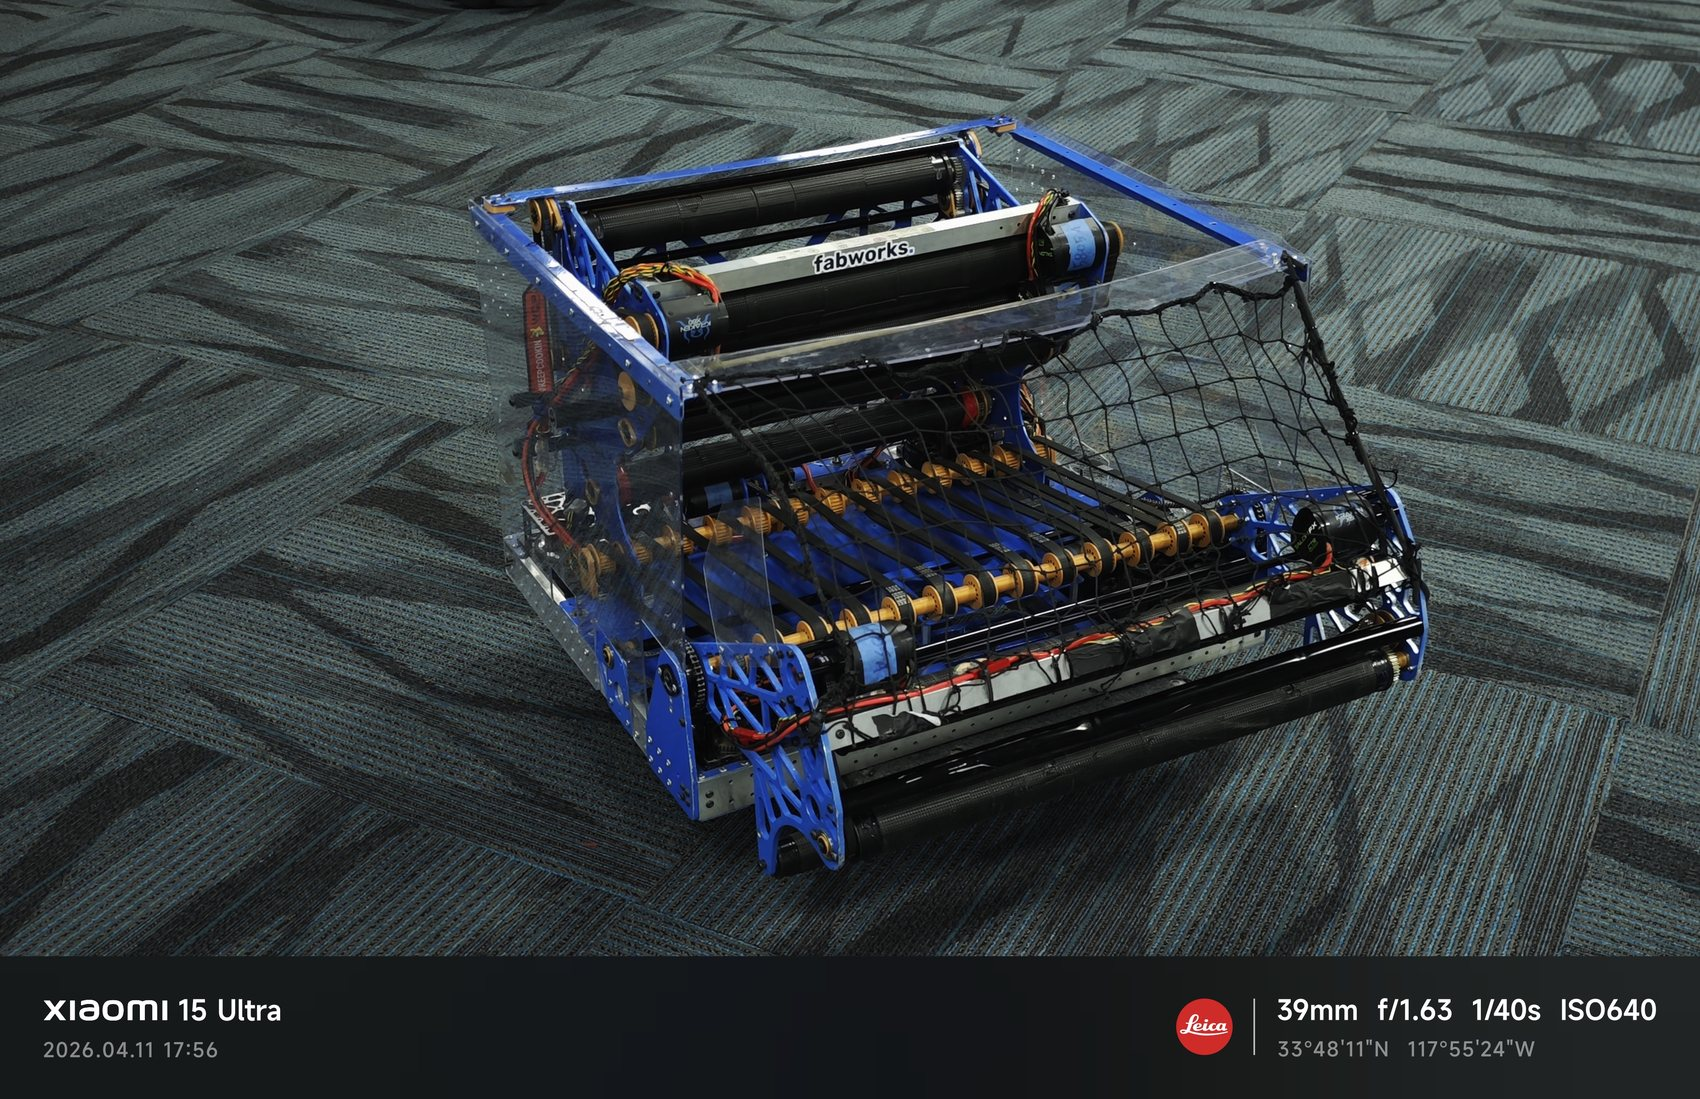
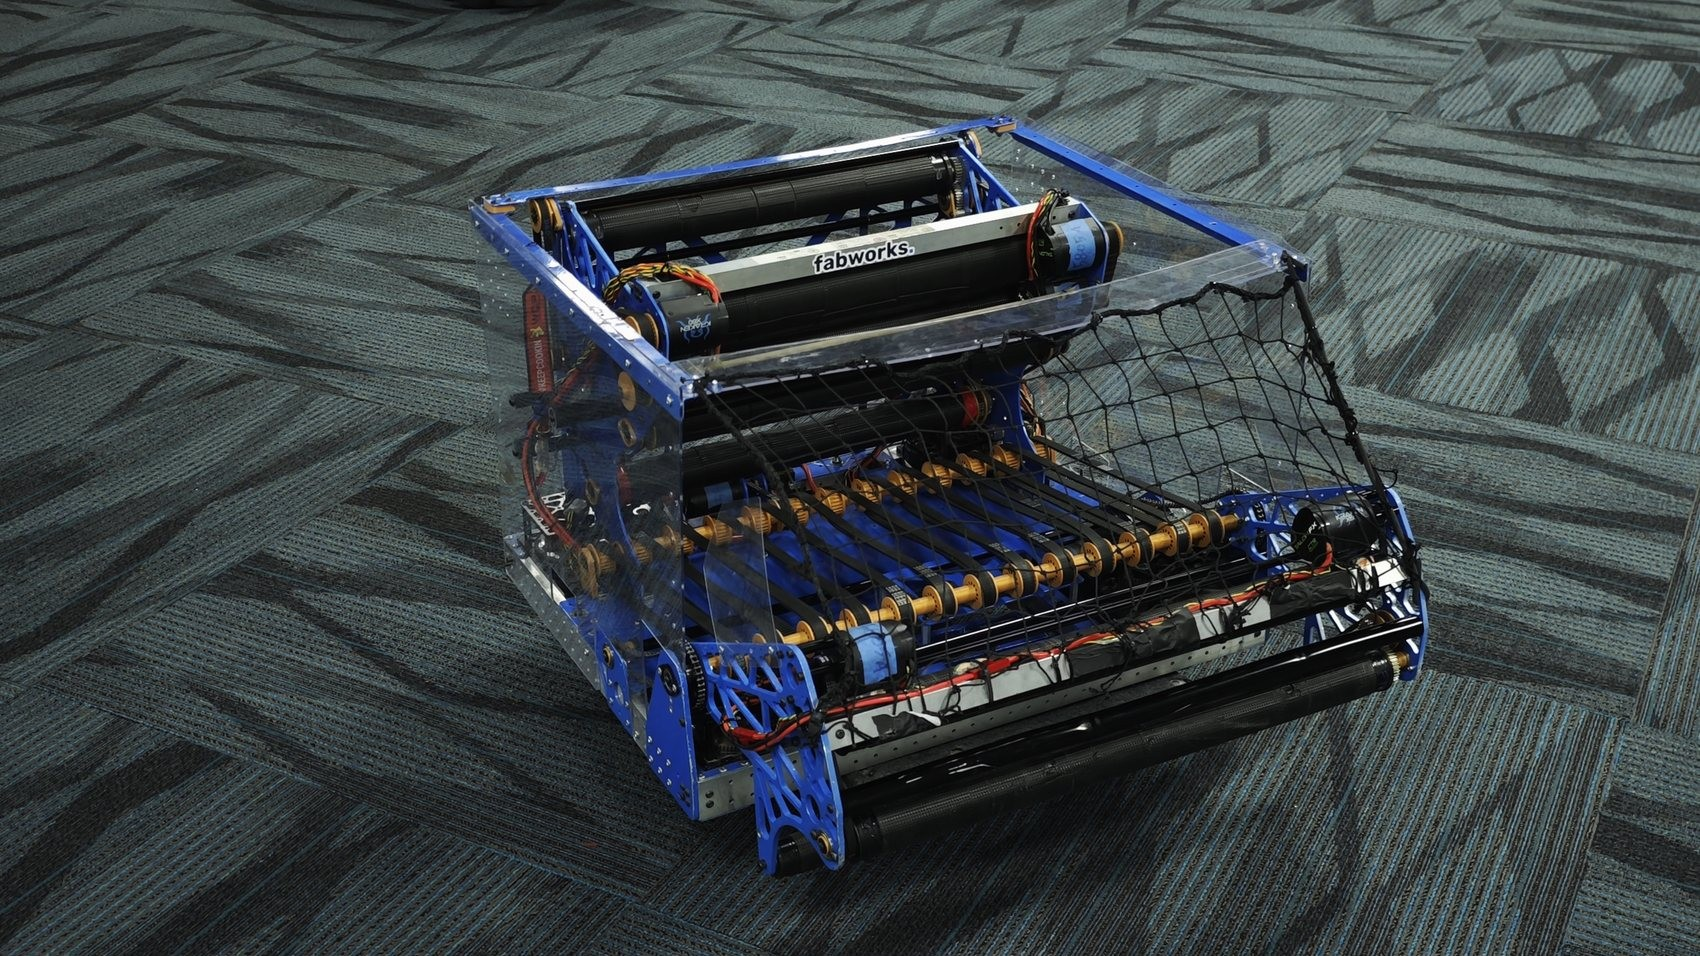
Touch targets on the Catalyst page; photos without the camera's watermark bar
The pinned sponsor bar and the unused scroll rail are deleted. Four
photos carried the phone camera's watermark strip (model, timestamp and
coordinates); it is cropped off.

diff --git a/src/components/Catalyst.module.css b/src/components/Catalyst.module.css
@@ -747,3 +747,20 @@
     transition: none;
   }
 }
+
+/* Touch: every control on this page is at least 44px to hit. */
+@media (pointer: coarse) {
+  .copyBtn,
+  .switchBtn {
+    min-height: 44px;
+    padding-left: 16px;
+    padding-right: 16px;
+  }
+  .inline {
+    display: inline-block;
+    padding: 11px 0;
+  }
+  .btn {
+    min-height: 44px;
+  }
+}
